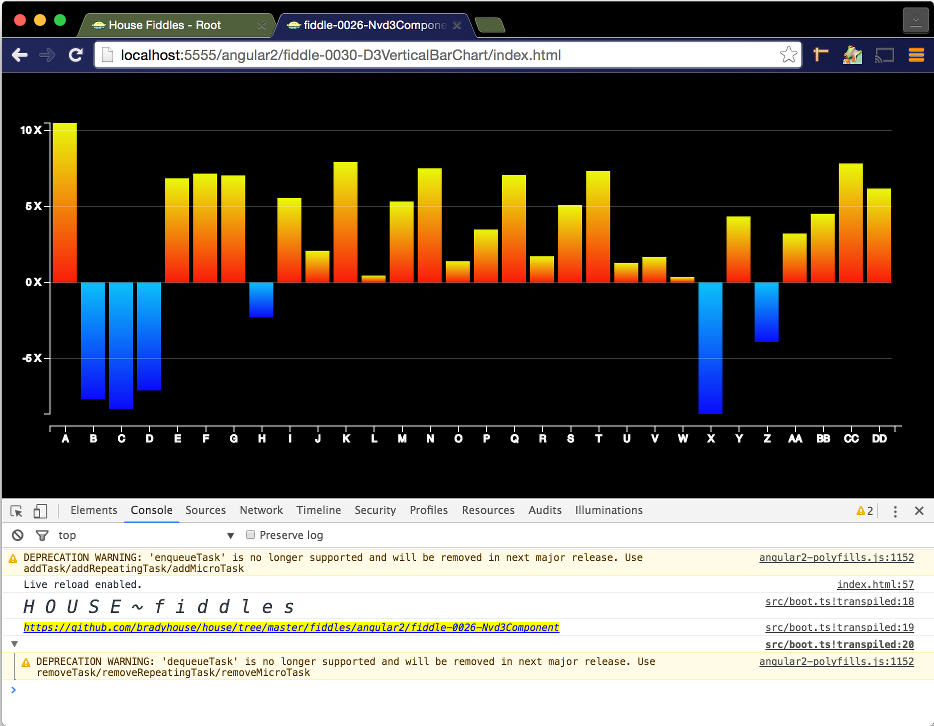
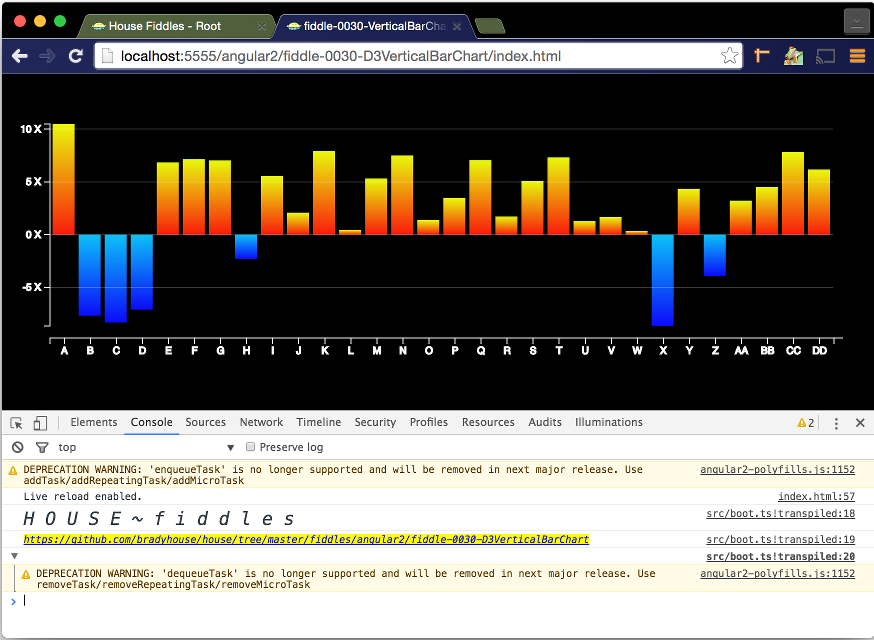
201603260420

diff --git a/fiddles/angular2/fiddle-0030-D3VerticalBarChart/src/meta.ts b/fiddles/angular2/fiddle-0030-D3VerticalBarChart/src/meta.ts
@@ -2,7 +2,7 @@
 var metadata = {
     fiddleHeader: 'Angular 2 - TreeView',
     urls: {
-        github: 'https://github.com/bradyhouse/house/tree/master/fiddles/angular2/fiddle-0026-Nvd3Component',
+        github: 'https://github.com/bradyhouse/house/tree/master/fiddles/angular2/fiddle-0030-D3VerticalBarChart',
         data: "data.json"
     },
     consoleTag: 'H O U S E ~ f i d d l e s'
